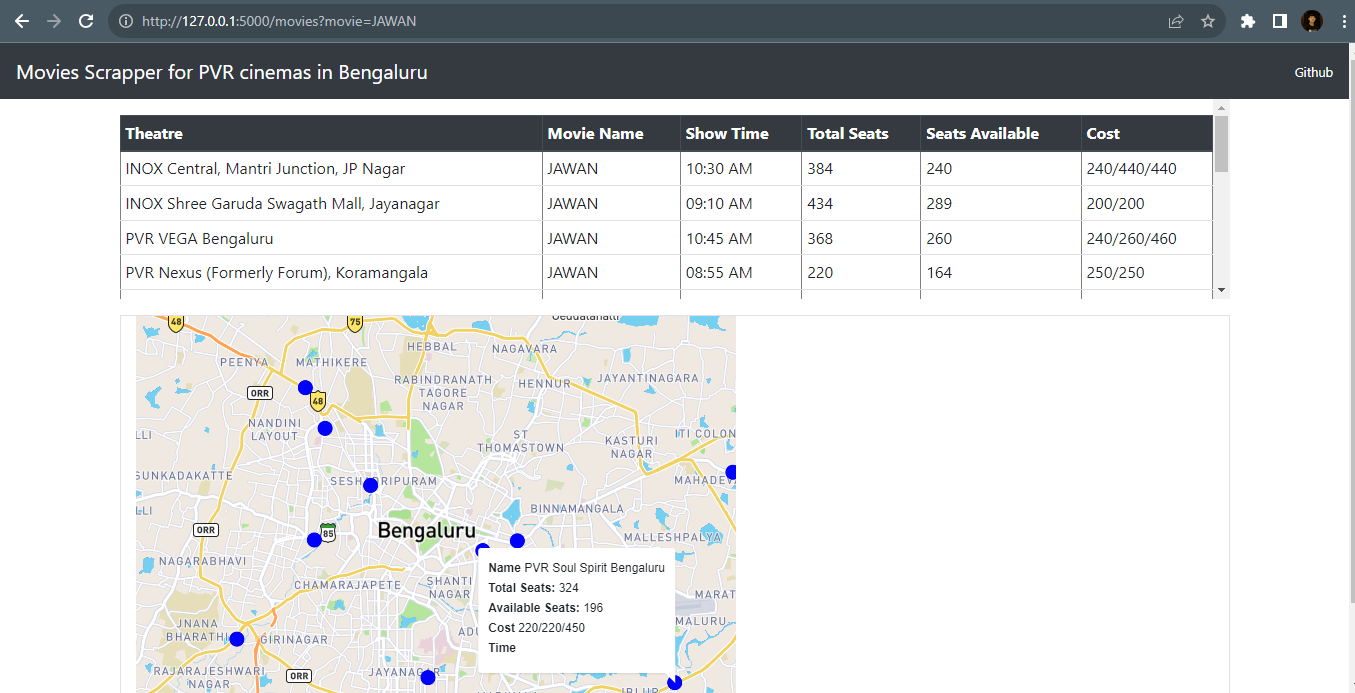
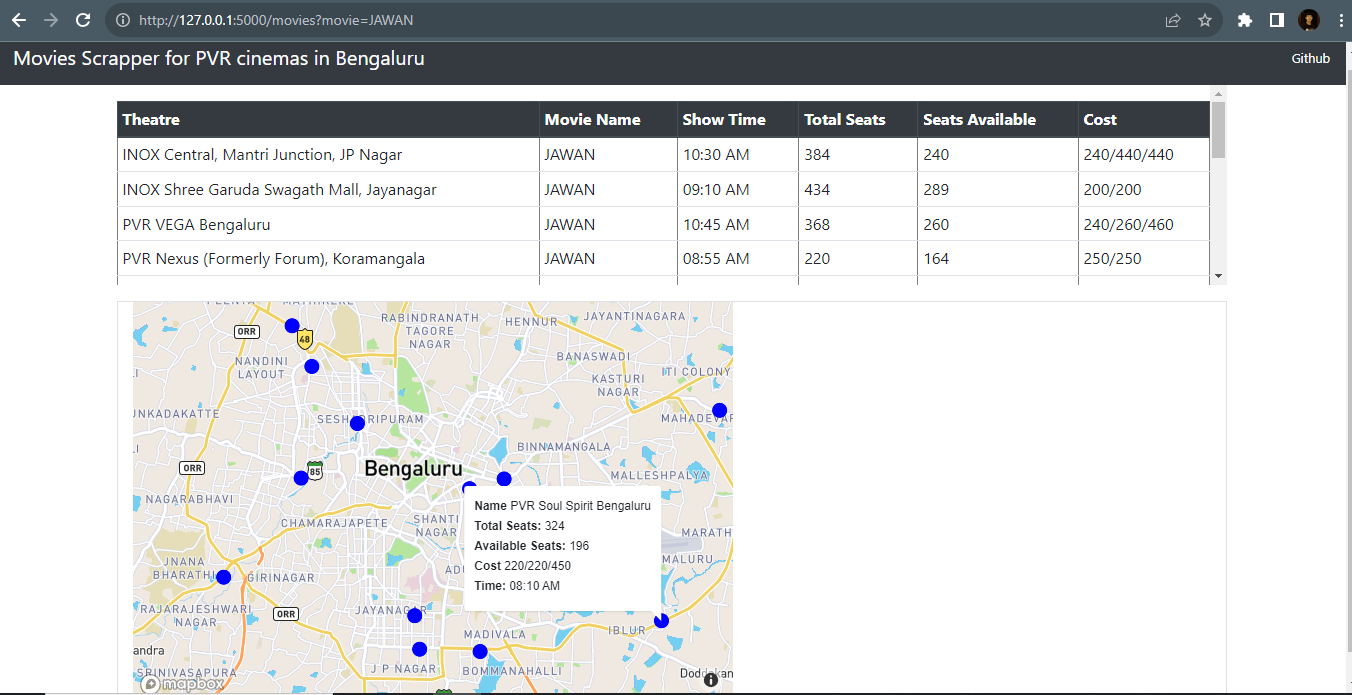
final working draft

diff --git a/templates/movie.html b/templates/movie.html
@@ -28,7 +28,7 @@
     </div>
 
     <div class="container mt-3 border">
-        <div id='map' style='width: 600px; height: 450px;'></div>
+        <div id='map' style='width: 600px; height: 400px;'></div>
         <script>
         mapboxgl.accessToken = 'pk.eyJ1IjoianNvbWEiLCJhIjoibFJmYl9JWSJ9.AUm8d76cbOvVEn2mMeG_ZA';
         var map = new mapboxgl.Map({
@@ -55,7 +55,7 @@
                             "AvailableSeats": {{ item.SeatsAvailable }},
                             "Cost" : "{{item.Cost}}",
                             "Name" : "{{item.Theatre}}",
-                            "Time" : "{{item.ShowTime}}"
+                            "Time" : "{{item.Time}}"
                             }
                     }{% if not loop.last %},{% endif %}
                     {% endfor %}
@@ -99,7 +99,7 @@
                 <strong>Total Seats:</strong> ${TotalSeats}<br>
                 <strong>Available Seats:</strong> ${AvailableSeats}<br>
                 <strong>Cost</strong> ${Cost}<br>
-                <strong>Time</strong> ${Time}
+                <strong>Time:</strong> ${Time}
             `;
 
             // Set the popup content and location, and open it
